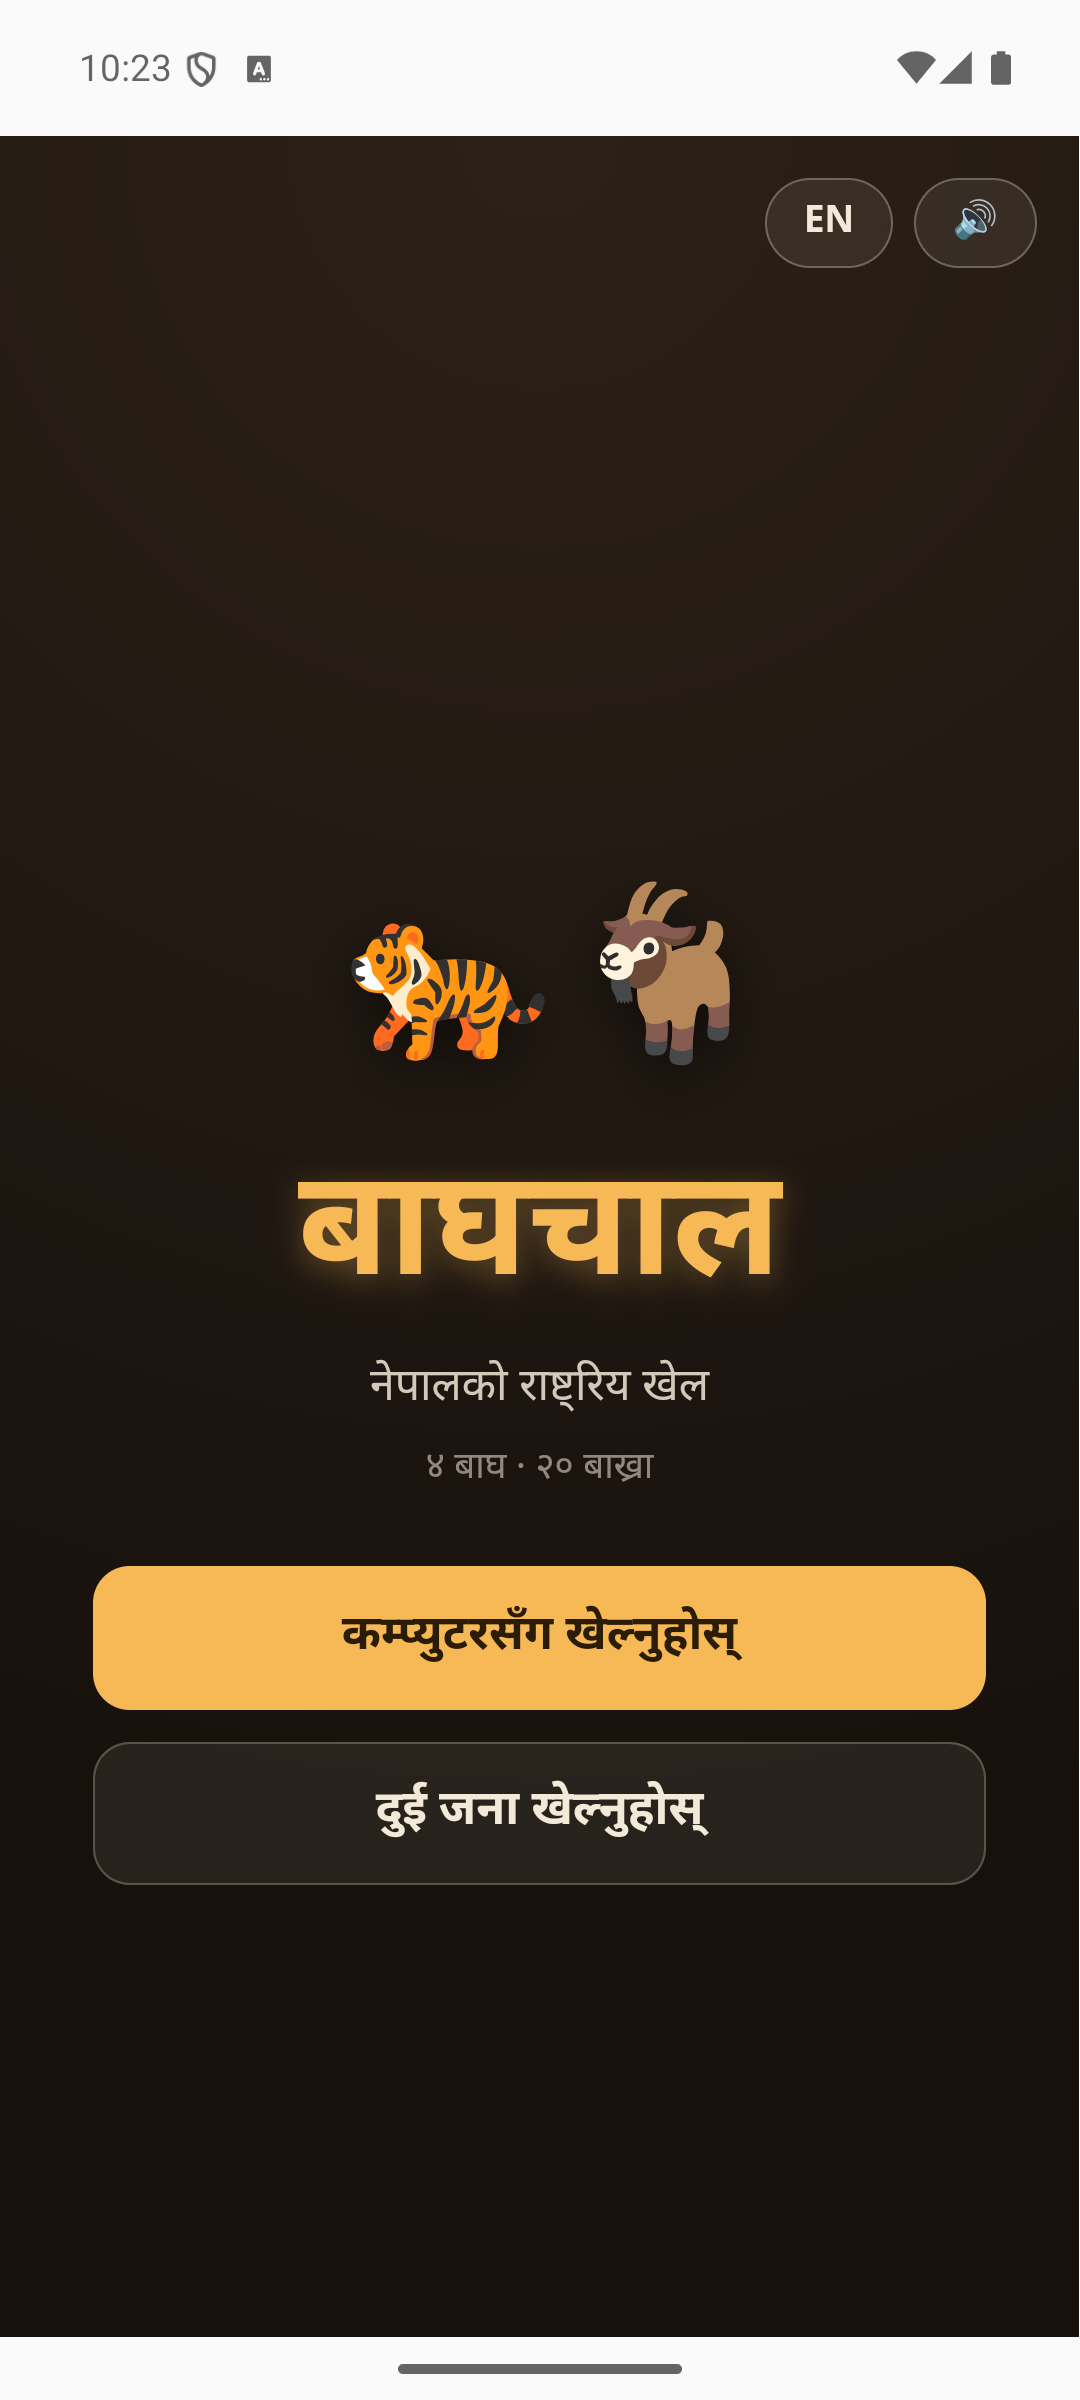
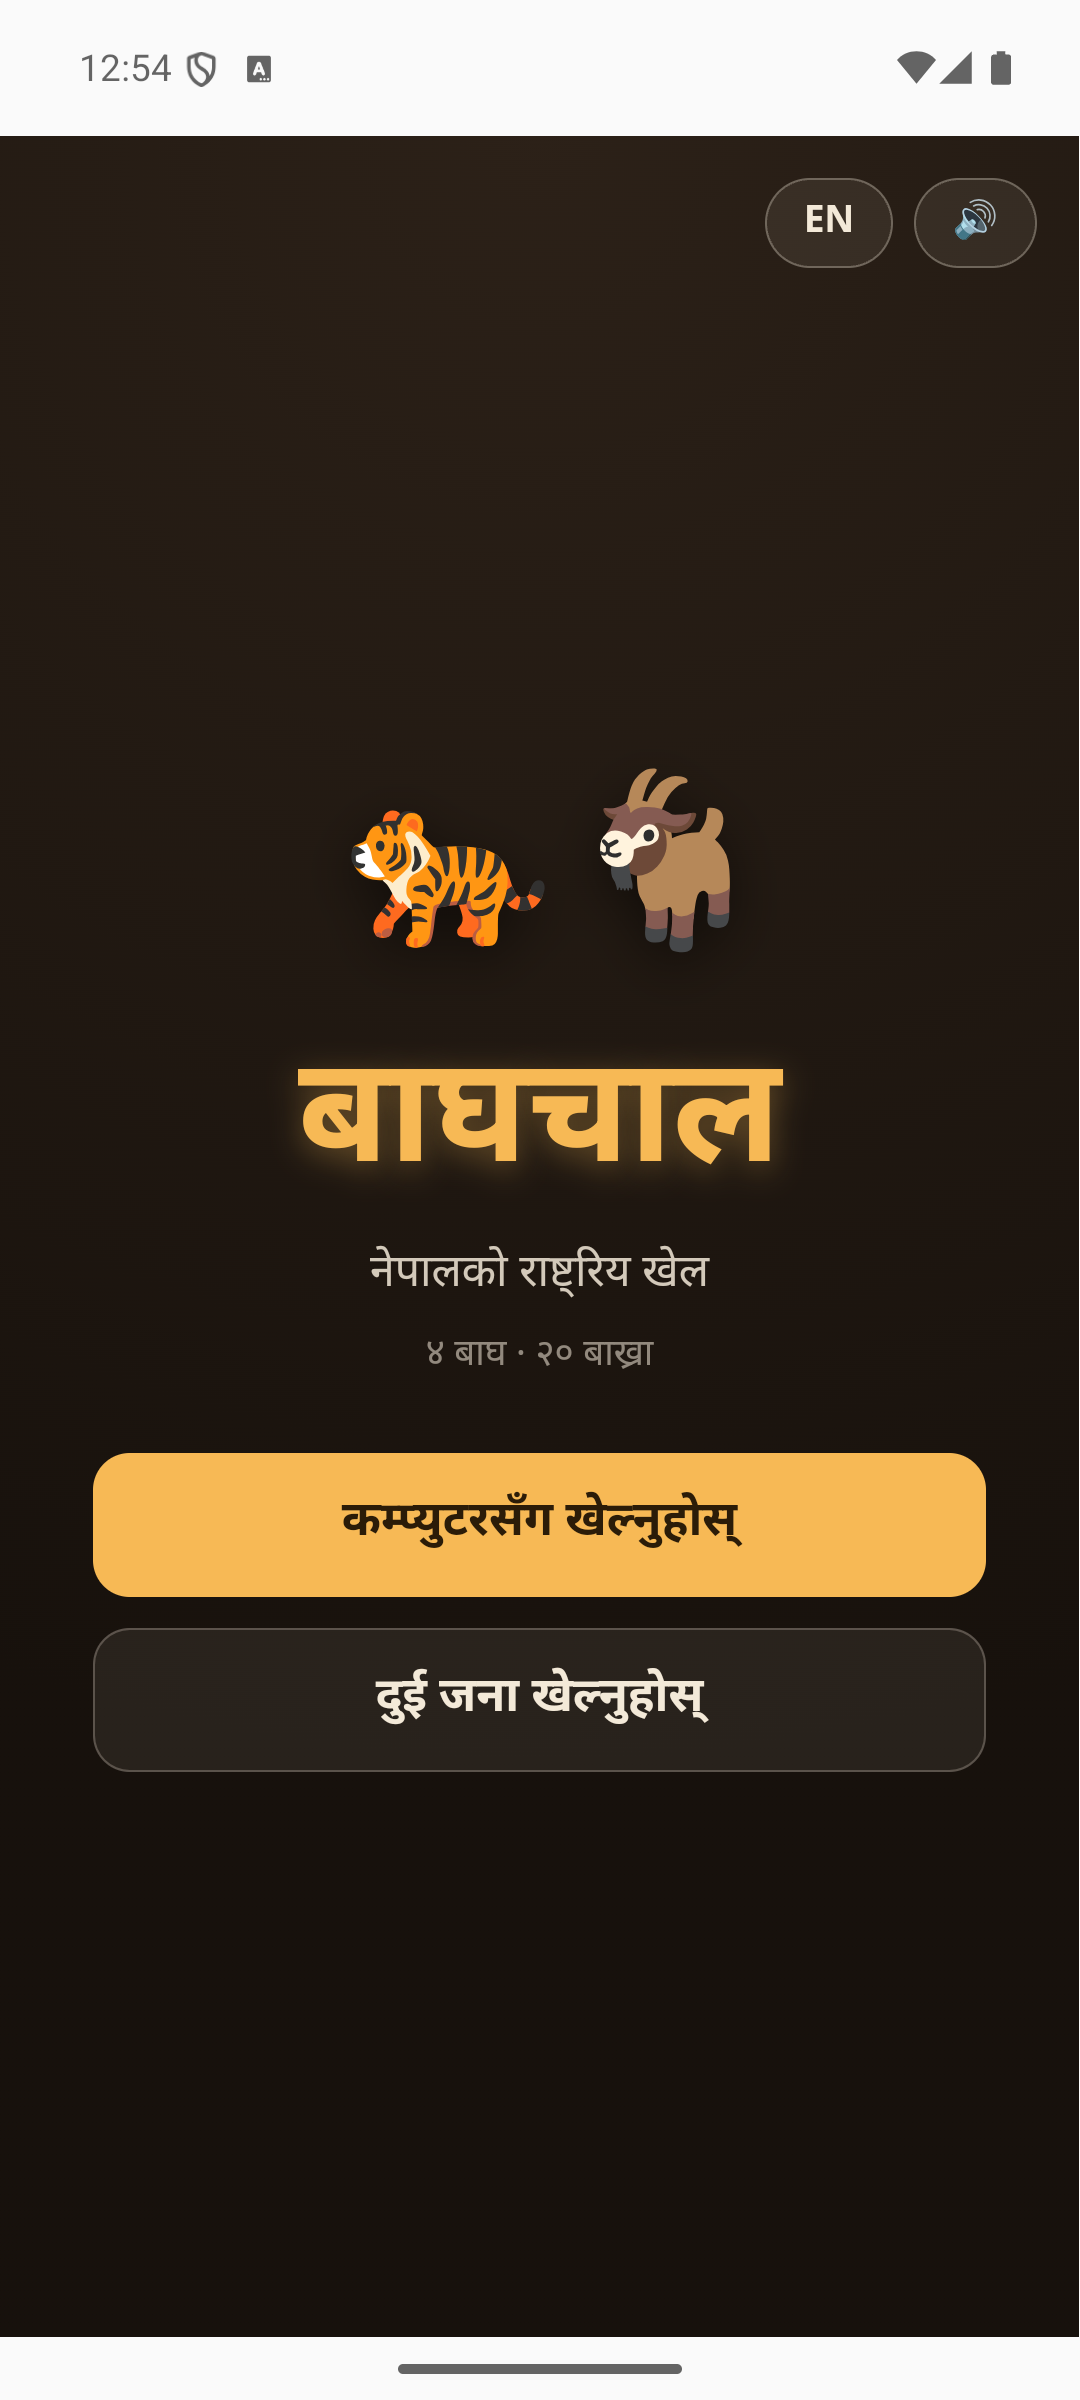
v1

Changed region(s): [[0.0611, 0.3125, 0.9167, 0.7812], [0.1222, 0.0, 0.1528, 0.0312]]

diff --git a/src/ui/app.ts b/src/ui/app.ts
@@ -43,6 +43,7 @@ export class App {
   private playerSide: Side = 'goat';
   private difficulty: Difficulty = (localStorage.getItem('difficulty') as Difficulty) || 'medium';
   private soundOn = loadBool('sound', true);
+  private showLastMove = loadBool('lastMove', true);
   private selected: number | null = null;
   private thinking = false;
   private paused = false;
@@ -132,6 +133,12 @@ export class App {
         setSoundEnabled(this.soundOn);
         localStorage.setItem('sound', this.soundOn ? '1' : '0');
         if (this.soundOn) this.sound('tap');
+        this.render();
+        break;
+      case 'lastmove':
+        this.showLastMove = !this.showLastMove;
+        localStorage.setItem('lastMove', this.showLastMove ? '1' : '0');
+        this.sound('tap');
         this.render();
         break;
     }
@@ -325,10 +332,11 @@ export class App {
     }
   }
 
-  private controlsView(withSound = true): string {
+  private controlsView(withSound = true, withLastMove = false): string {
     const soundIcon = this.soundOn ? '🔊' : '🔇';
     return `
       <div class="controls${withSound ? '' : ' game-controls'}">
+        ${withLastMove ? `<button class="chip-btn${this.showLastMove ? ' active' : ''}" data-act="lastmove">${t('lastMove')}</button>` : ''}
         <button class="chip-btn" data-act="lang">${t('langBtn')}</button>
         ${withSound ? `<button class="chip-btn" data-act="sound" aria-label="sound">${soundIcon}</button>` : ''}
       </div>`;
@@ -380,15 +388,17 @@ export class App {
   }
 
   private lastMoveView(): string {
+    const off = this.showLastMove ? '' : ' off';
     const moves = this.engine.moves;
-    if (moves.length === 0) return '<div class="last-move empty"></div>';
+    if (moves.length === 0) return `<div class="last-move empty${off}"></div>`;
     const m = moves[moves.length - 1];
-    const cls = m.kind === 'jump' ? ' capture' : '';
     const emoji = (moves.length - 1) % 2 === 0 ? '🐐' : '🐅';
-    return `<div class="last-move${cls}" aria-label="${t('lastMove')}"><span class="last-move-label">${t('lastMove')}:</span> ${emoji} ${moveLabel(m)}</div>`;
+    const cls = m.kind === 'jump' ? ' capture' : '';
+    return `<div class="last-move${cls}${off}" aria-label="${t('lastMove')}"><span class="last-move-label">${t('lastMove')}:</span> ${emoji} ${moveLabel(m)}</div>`;
   }
 
   private moveListView(): string {
+    if (!this.showLastMove) return '';
     const moves = this.engine.moves;
     if (moves.length === 0) return `<p class="pause-empty">${t('movesLabel')}: —</p>`;
     const chips = moves.map((m, i) => this.chipFor(m, i)).join('');
@@ -408,7 +418,7 @@ export class App {
           </div>
           <p class="prompt-label">${t('diffLabel')}</p>
           <div class="chips">${this.difficultyChips()}</div>
-          ${this.controlsView()}
+          ${this.controlsView(true, true)}
         </div>
       </div>`;
   }
@@ -424,7 +434,7 @@ export class App {
       selected: this.selected,
       targets: this.targets(),
       placing,
-      last: this.lastMove(),
+      last: this.showLastMove ? this.lastMove() : null,
       fx,
     });
     const turnEmoji = st.toMove === 'goat' ? '🐐' : '🐅';
@@ -467,6 +477,7 @@ export class App {
   }
 
   private render(): void {
+    this.root.dataset.screen = this.screen;
     if (this.screen === 'menu') this.root.innerHTML = this.menuView();
     else if (this.screen === 'side') this.root.innerHTML = this.sideView();
     else this.root.innerHTML = this.gameView();

diff --git a/src/style.css b/src/style.css
@@ -5,6 +5,28 @@
   -webkit-tap-highlight-color: transparent;
 }
 
+/* safe area: env() = what the WebView reports (modern WebViews),
+   --safe-area-inset-* = injected by Capacitor's SystemBars plugin.
+   Both describe the same physical overlap, so max() not sum;
+   0px fallbacks keep desktop/dev pixel-identical. */
+:root {
+  --safe-top: max(env(safe-area-inset-top, 0px), var(--safe-area-inset-top, 0px));
+  --safe-bottom: max(env(safe-area-inset-bottom, 0px), var(--safe-area-inset-bottom, 0px));
+}
+
+html {
+  user-select: none;
+  -webkit-user-select: none;
+  -webkit-touch-callout: none;
+}
+
+/* opt-in escape hatch for future copyable strings (versions, seeds, errors) */
+.selectable {
+  user-select: text;
+  -webkit-user-select: text;
+}
+
+
 html,
 body {
   height: 100%;
@@ -26,6 +48,8 @@ body {
   display: flex;
   flex-direction: column;
   padding: 16px;
+  padding-top: calc(16px + var(--safe-top));
+  padding-bottom: calc(16px + var(--safe-bottom));
   position: relative;
 }
 
@@ -39,6 +63,29 @@ body {
   justify-content: center;
   gap: 10px;
   text-align: center;
+}
+
+/* menu/side screens (data-screen set by render()): pad-bottom mirrors pad-top so
+   .menu's centered box sits exactly at viewport middle (safe-top is what makes
+   top/bottom differ on phones); controls pin top-right out of flow, same spot
+   as before. Attribute selectors instead of :has() - minSdk 24 allows WebViews
+   older than Chromium 105 where :has() is silently dropped. */
+#app[data-screen='menu'],
+#app[data-screen='side'] {
+  padding-bottom: calc(16px + var(--safe-top));
+}
+
+#app[data-screen='menu'] > .controls,
+#app[data-screen='side'] > .controls {
+  position: absolute;
+  top: calc(16px + var(--safe-top));
+  right: 16px;
+}
+
+#app[data-screen='menu'] > .menu,
+#app[data-screen='side'] > .menu {
+  justify-content: center;
+  justify-content: safe center;
 }
 
 .menu-art {
@@ -176,7 +223,7 @@ body {
 }
 
 .board-wrap {
-  width: min(100%, 640px, calc(100dvh - 260px));
+  width: min(100%, 640px, calc(100dvh - 260px - var(--safe-top) - var(--safe-bottom)));
   margin-inline: auto;
 }
 
@@ -227,7 +274,7 @@ body {
 
 .selected {
   fill: none;
-  stroke: #1971c2;
+  stroke: #f7b955;
   stroke-width: 5;
 }
 
@@ -289,7 +336,7 @@ body {
   display: flex;
   align-items: center;
   justify-content: center;
-  padding: 24px;
+  padding: calc(24px + var(--safe-top)) 24px calc(24px + var(--safe-bottom));
   z-index: 10;
 }
 
@@ -490,6 +537,10 @@ body {
 
 .last-move-label {
   opacity: 0.6;
+}
+
+.last-move.off {
+  display: none;
 }
 
 /* ---------- highlights & animation ---------- */

diff --git a/store/listing.md b/store/listing.md
@@ -79,6 +79,7 @@ Screenshots order: 01 menu · 02 side + difficulty · 03 mid-game · 04 pause + 
 ## Console settings (M5)
 
 - Package: `np.baghchal.game` (locked) · version 1.0 (versionCode 1)
+- **Versioning: versionCode 1 (r1) is spent on first upload — before every later upload, bump `versionCode` in `android/app/build.gradle` (→ r2, r3…); `release.ps1` derives artifact names automatically (`baghchal-1.0-r2-release.*`). Bump `versionName` only per meaningful update.**
 - Category: Games › Board · Tags: strategy, offline, nepali
 - Content rating: complete questionnaire (violence None, multiplayer None, ads None, IAP None)
 - Data safety: no data collected — the app has zero network use and zero permissions
